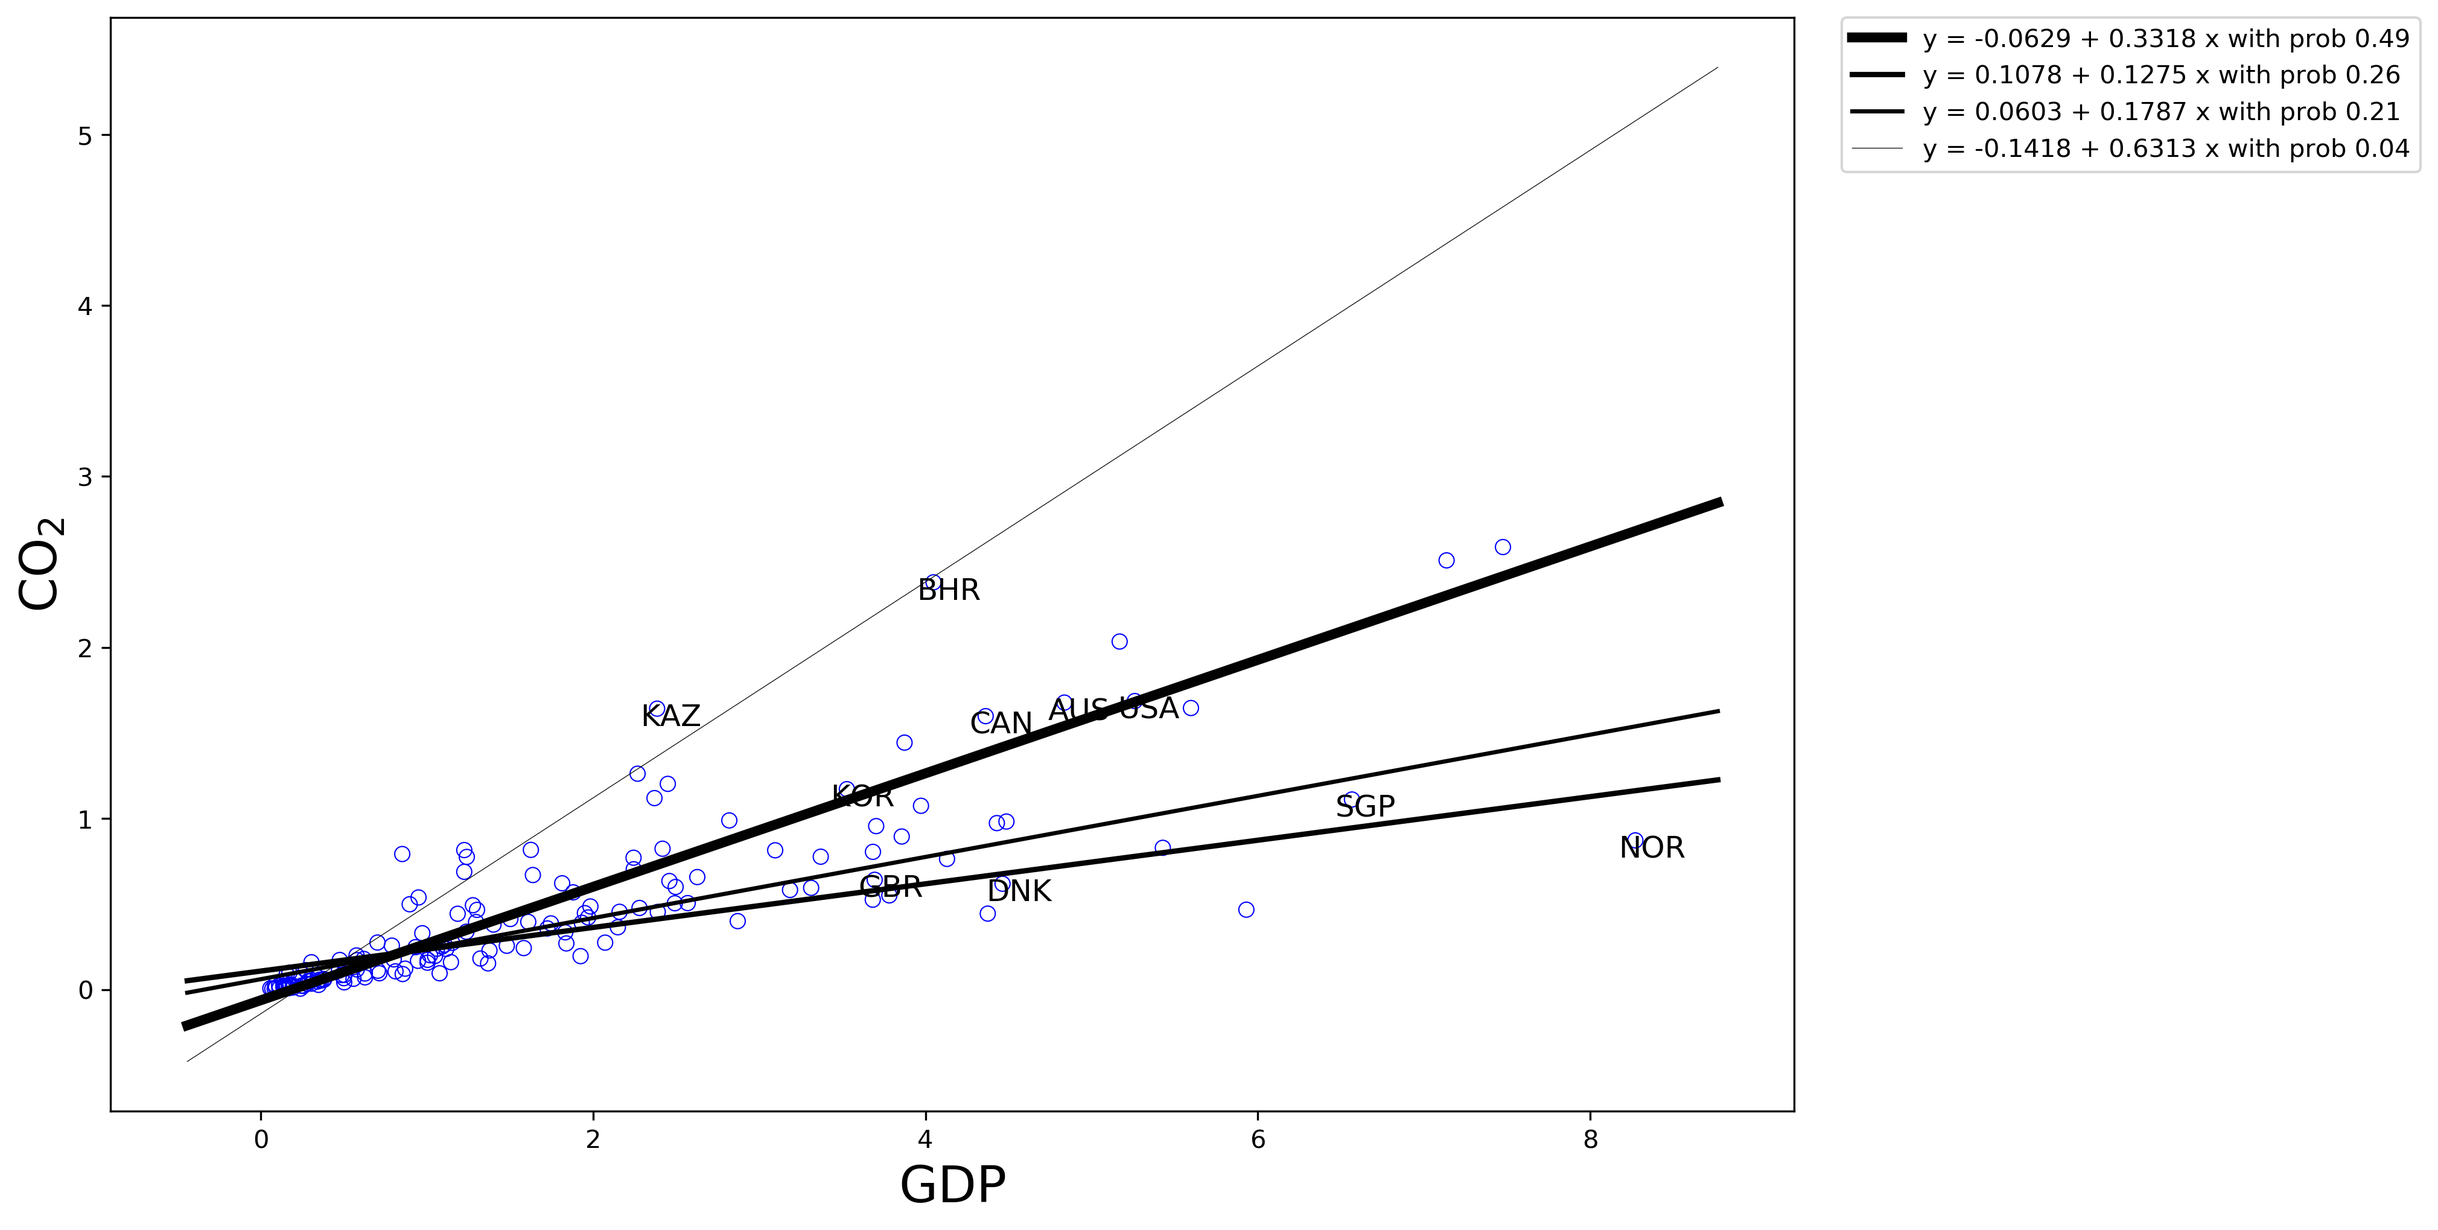
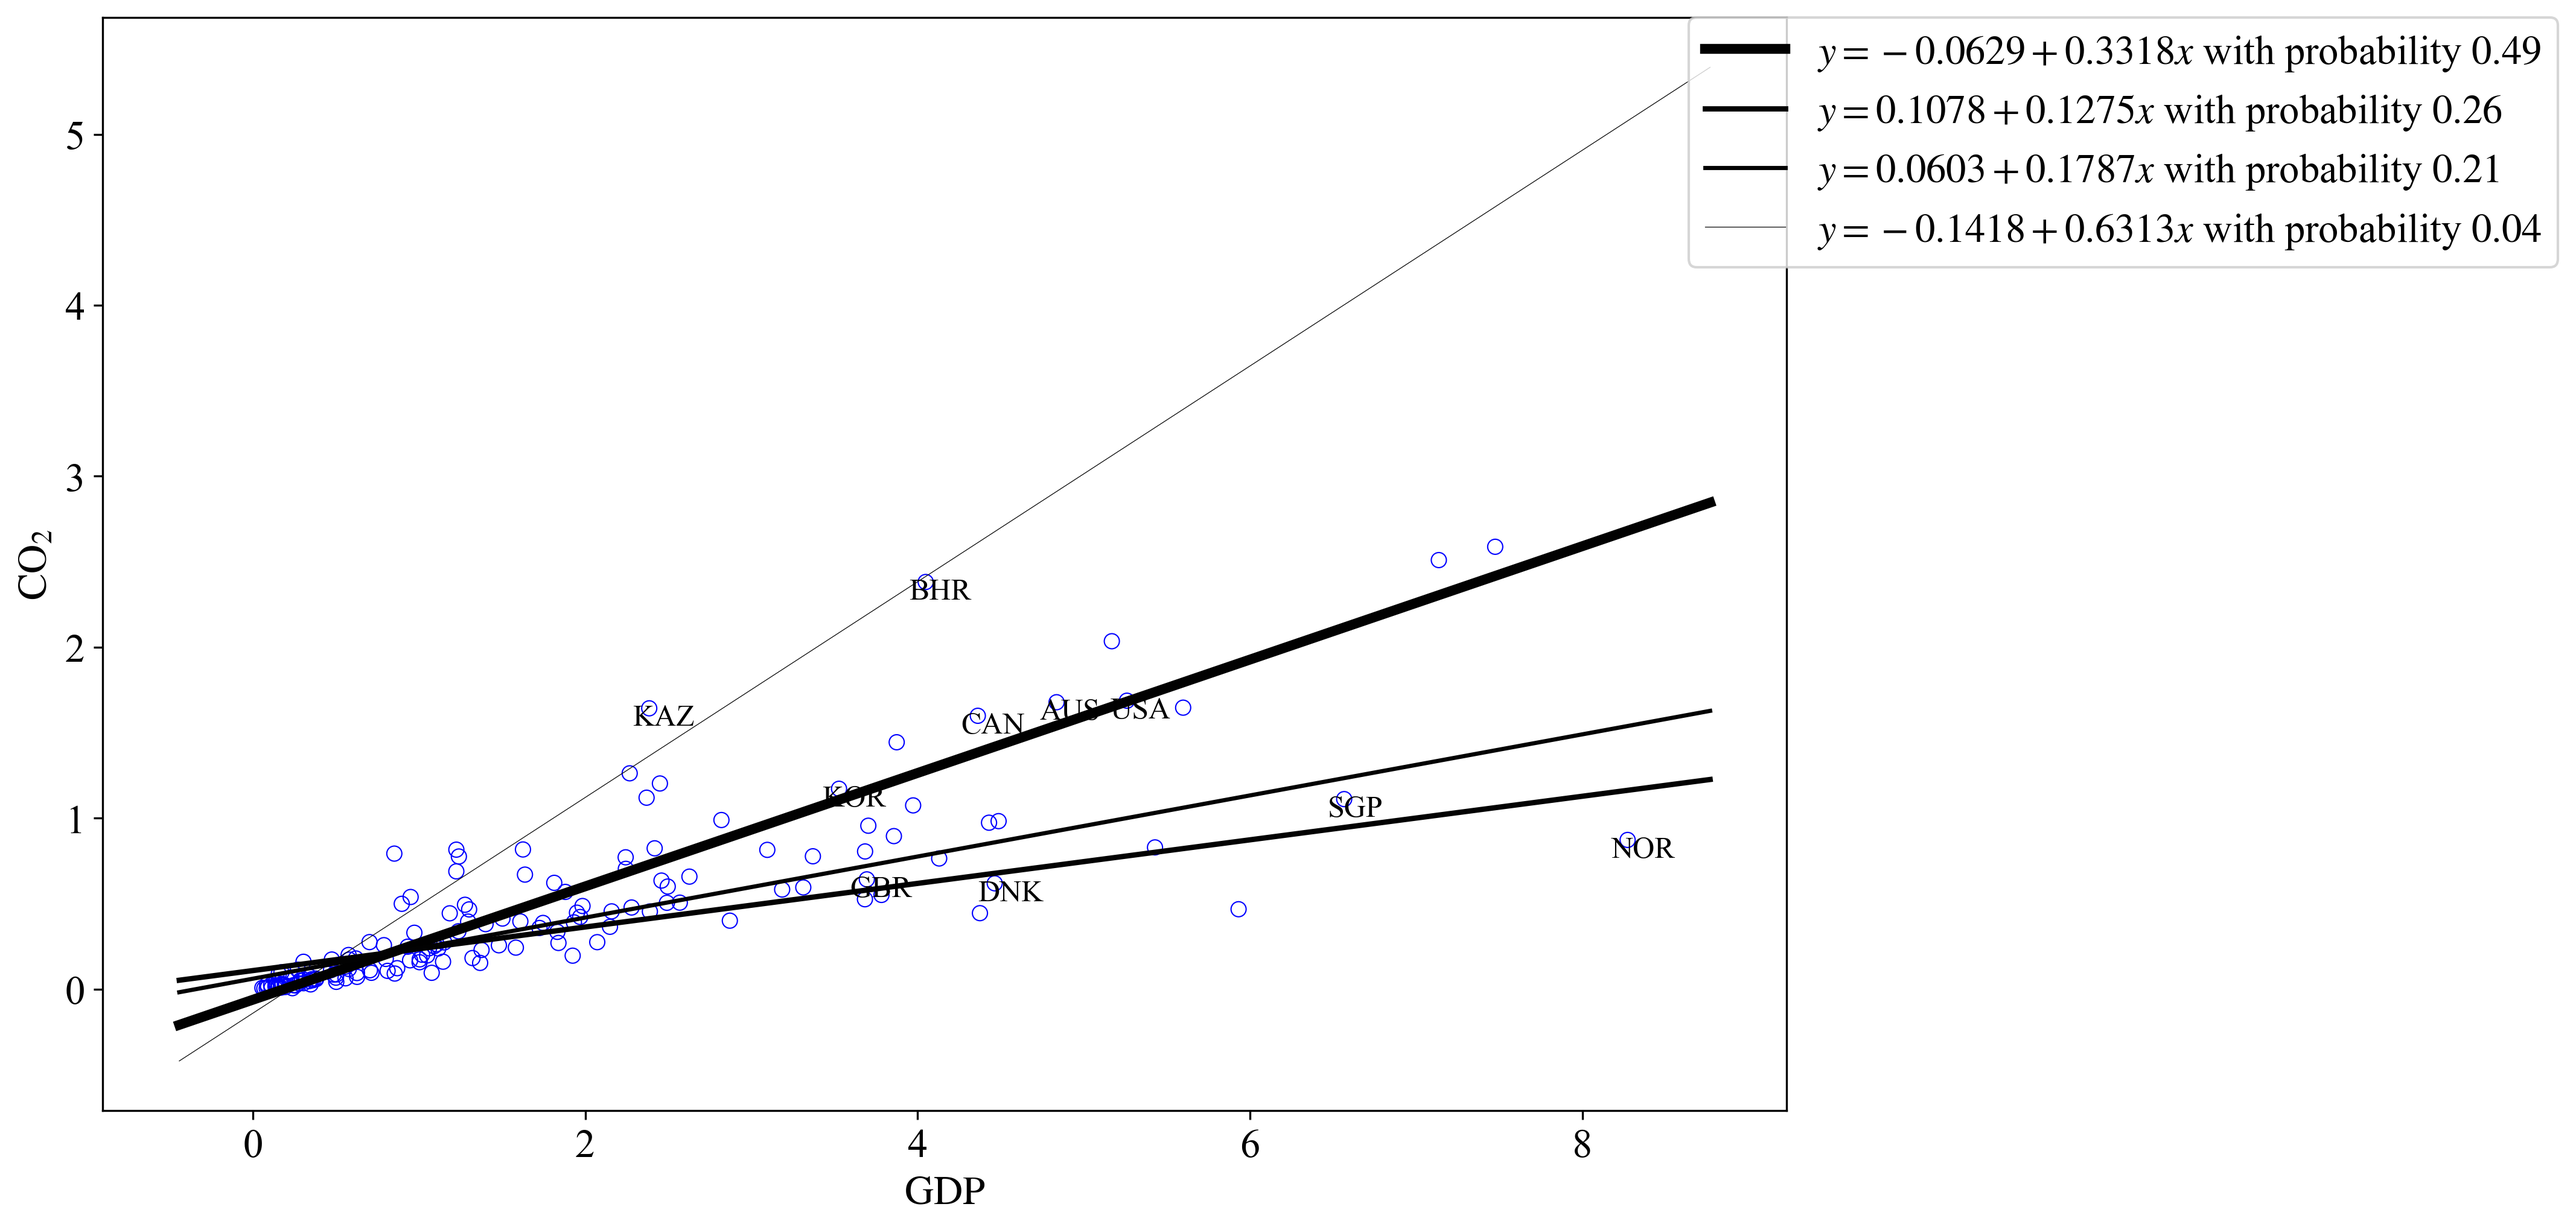
fonts
set up global font families

diff --git a/scripts/simulation_lib.py b/scripts/simulation_lib.py
@@ -81,8 +81,8 @@ def test(n,iter, b1, b2, b3,pi1,pi2,sigma,sigma_est):
     ax = plt.gca()
     ax.set_xlim([-2,4])
     ax.set_ylim([-3,8])
-    ax.set_xlabel(r'x')
-    ax.set_ylabel(r'y')
+    ax.set_xlabel(r'$x$')
+    ax.set_ylabel(r'$y$')
     lgd = ax.legend(loc=2, bbox_to_anchor=(0., -0.1),borderaxespad=0.);
     plt.savefig('./../pics/%s_noisy.png'%fname, dpi = 300, bbox_extra_artists=(lgd,), bbox_inches='tight')
     plt.show();
@@ -115,9 +115,9 @@ def test(n,iter, b1, b2, b3,pi1,pi2,sigma,sigma_est):
                         #Line2D([0], [0], color='black')
                         #,Line2D([0], [0], color='green')#
                         ]
-        lgd = plt.legend(custom_lines, ['y = %.1f + %.1f x with probability %.2f' %(b1[0], b1[1], pi1), #,'True mixture'# 
-                                  'y = %.1f + %.1f x with probability %.2f' %(b2[0], b2[1], pi2),
-                                  'y = %.1f + %.1f x with probability %.2f' %(b3[0], b3[1], 1-pi1-pi2),
+        lgd = plt.legend(custom_lines, [r'$y = %.1f + %.1f x$ with probability $%.2f$' %(b1[0], b1[1], pi1), #,'True mixture'# 
+                                  r'$y = %.1f + %.1f x$ with probability $%.2f$' %(b2[0], b2[1], pi2),
+                                  r'$y = %.1f + %.1f x$ with probability $%.2f$' %(b3[0], b3[1], 1-pi1-pi2),
                                    #'NPMLE component'#, 'OLS'#
                                  ],loc = 2,bbox_to_anchor=(0., -0.1),borderaxespad=0.);
     else:
@@ -128,16 +128,16 @@ def test(n,iter, b1, b2, b3,pi1,pi2,sigma,sigma_est):
                         #Line2D([0], [0], color='black')
                         #,Line2D([0], [0], color='green')#
                         ]
-        lgd = plt.legend(custom_lines, ['y = %.1f + %.1f x with probability %.2f' %(b1[0], b1[1], pi1), #,'True mixture'# 
-                                  'y = %.1f + %.1f x with probability %.2f' %(b2[0], b2[1], pi2),
+        lgd = plt.legend(custom_lines, [r'$y = %.1f + %.1f x$ with probability $%.2f$' %(b1[0], b1[1], pi1), #,'True mixture'# 
+                                  r'$y = %.1f + %.1f x$ with probability $%.2f$' %(b2[0], b2[1], pi2),
                                 
                                    #'NPMLE component'#, 'OLS'#
                                  ],loc=2,bbox_to_anchor=(0., -0.1),borderaxespad=0.);
     ax = plt.gca()
     ax.set_xlim([-2,4])
     ax.set_ylim([-3,8])
-    ax.set_xlabel('x')
-    ax.set_ylabel('y')
+    ax.set_xlabel(r'$x$')
+    ax.set_ylabel(r'$y$')
     plt.savefig('./../pics/%s_true.png'%fname, dpi = 300, bbox_extra_artists=(lgd,), bbox_inches='tight')
     plt.show();
     
@@ -171,7 +171,7 @@ def test(n,iter, b1, b2, b3,pi1,pi2,sigma,sigma_est):
             component_color.append(temp)
             plt.plot(t,b[0]+b[1]*t, color = tuple( np.array(RGB_tuples[temp])/255),\
                      linestyle = line_styles[int(count%4)],linewidth = alpha[i][0]*8 ,\
-                     label = 'y = %.4f + %.4f x with probability %.2f' %(b[0], b[1], alpha[i]))
+                     label = r'$y = %.4f + %.4f x$ with probability $%.2f$'%(b[0], b[1], alpha[i]))
             temp = temp + 1
             print("coefficients", b, "with probability", alpha[i])
             count = count + 1
@@ -198,8 +198,8 @@ def test(n,iter, b1, b2, b3,pi1,pi2,sigma,sigma_est):
     ax = plt.gca()
     ax.set_xlim([-2,4])
     ax.set_ylim([-3,8])
-    ax.set_xlabel('x')
-    ax.set_ylabel('y')
+    ax.set_xlabel(r'$x$')
+    ax.set_ylabel(r'$y$')
     lgd = ax.legend(loc=2, bbox_to_anchor=(0., -0.1),borderaxespad=0.);
     plt.savefig('./../pics/%s_fitted.png'%fname, dpi = 300, bbox_extra_artists=(lgd,), bbox_inches='tight')
     plt.show();
@@ -228,11 +228,11 @@ def test(n,iter, b1, b2, b3,pi1,pi2,sigma,sigma_est):
 #        plt.subplot(1,len(x_list),i+1)
 #        plt.plot(y,pi1*scipy.stats.norm.pdf(y - (b1[0]+b1[1]*x), 0, sigma)+pi2*scipy.stats.norm.pdf(y-(b2[0]+b2[1]*x),0, sigma)+(1-pi1-pi2)*scipy.stats.norm.pdf(y-(b3[0]+b3[1]*x),0, sigma),'red',label = 'True distribution',linestyle ='-')
 #        plt.plot(y, sum(alpha[i]*scipy.stats.norm.pdf( y-(B[0,i]+B[1,i]*x), 0, sigma_est) for i in range(len(alpha))),'black',label = 'NPMLE distribution',linestyle ='--')
-#        plt.title("x = %.1f"%x)
+#        plt.title(r'$x = %.1f$'%x)
 #        
-#        plt.xlabel('y')
+#        plt.xlabel(r'$y$')
 #        if i == 0:
-#            plt.ylabel('pdf')
+#            plt.ylabel(r'$\rm{pdf}$')
 #        
 #        
 #           

diff --git a/scripts/run_real_data_gdp.py b/scripts/run_real_data_gdp.py
@@ -37,7 +37,7 @@ print("final neg log likelihood is ", L_final)
 print("number of components is", len(alpha))
 print("only components with probability at least ", threprob, " are shown below:")
 
-fig1, ax = plt.subplots(figsize = (12,8))
+fig1, ax = plt.subplots(figsize = (8,6))
 plt.scatter(X[:,1],y,color = 'blue',marker = 'o', facecolors = 'None',linewidths = 0.5);
 #label = 'Noisy data',
 
@@ -59,7 +59,7 @@ for i in index_sorted:
     b = B[:,i]
     if alpha[i] >threprob:
         plt.plot(t,b[0]+b[1]*t, color = str((1-alpha[i][0])/100),linewidth = alpha[i][0]*8 ,\
-                 label = 'y = %.4f + %.4f x with probability %.2f' %(b[0], b[1], alpha[i]) )
+                 label = '$y = %.4f + %.4f x$ with probability $%.2f$' %(b[0], b[1], alpha[i]) )
         print("coefficients", b, "with probability", alpha[i])
 # custom_lines = [Line2D([], [], color='gray', marker='o',markerfacecolor = 'None', linestyle='None'),
 #                 Line2D([0], [0], color='black')
@@ -68,7 +68,7 @@ for i in index_sorted:
 #                           , 'NPMLE component'
 #                          ],loc=9);
 ax = plt.gca()
-ax.set_xlabel(r'$\rm{GDP}$', size = 20)
-ax.set_ylabel(r'$\rm{CO_2}$', size = 20)
-lgd = ax.legend(loc=9, bbox_to_anchor=(1.2, 1),borderaxespad=0.) 
+ax.set_xlabel(r'$x$: $\rm{GDP}$')
+ax.set_ylabel(r'$y$: $\rm{CO_2}$')
+lgd = ax.legend(loc=9, bbox_to_anchor=(1.45, 1),borderaxespad=0.) 
 plt.savefig('./../pics/co2_gdp.png', dpi = 300, bbox_extra_artists=(lgd,), bbox_inches='tight')

diff --git a/scripts/run_real_data_tone.py b/scripts/run_real_data_tone.py
@@ -4,6 +4,8 @@
 Created on Fri Mar  5 16:12:07 2021
 
 """
+from package_import import *
+from alg1_lib import *
 
 #read tonedata into file
 with open('./../data/tonedata.csv', newline='') as csvfile:
@@ -43,16 +45,16 @@ for i in index_sorted:
     b = B[:,i]
     if alpha[i] >threprob:
         plt.plot(t,b[0]+b[1]*t, color = str((1-alpha[i][0])/100),linewidth = alpha[i][0]*8 ,\
-                 label = 'y = %.4f + %.4f x with probability %.2f' %(b[0], b[1], alpha[i]) )
+                 label = r'$y = %.4f + %.4f x$ with probability $%.2f$' %(b[0], b[1], alpha[i]))
         print("coefficients", b, "with probability", alpha[i])
 #plt.plot(t,beta_ols[0]+beta_ols[1]*t,'green')  
 #plt.legend(custom_lines, ['Noisy data'#,'True mixture'# 
                          # , 'NPMLE component'#, 'OLS'#
                          #],loc=2);
 ax = plt.gca()
-lgd = ax.legend(loc=9, bbox_to_anchor=(1.32, 1),borderaxespad=0.) 
-ax.set_xlabel('Stretching ratio',size = 20)
-ax.set_ylabel('Adjusted ratio', size = 20)
+lgd = ax.legend(loc=9, bbox_to_anchor=(1.45, 1),borderaxespad=0.) 
+ax.set_xlabel(r'$x$: stretching ratio')
+ax.set_ylabel(r'$y$: djusted ratio')
 plt.savefig('./../pics/tone.png', dpi = 300, bbox_extra_artists=(lgd,), bbox_inches='tight')
 plt.show();
 

diff --git a/scripts/package_import.py b/scripts/package_import.py
@@ -35,3 +35,10 @@ import pandas as pd
 
 np.random.seed(26)
 random.seed(26)
+
+# change plot fonts
+rc = {"font.family" : "serif", 
+      "mathtext.fontset" : "cm",
+     "font.size": 16}
+plt.rcParams.update(rc)
+plt.rcParams["font.serif"] = ["Times New Roman"] + plt.rcParams["font.serif"]
